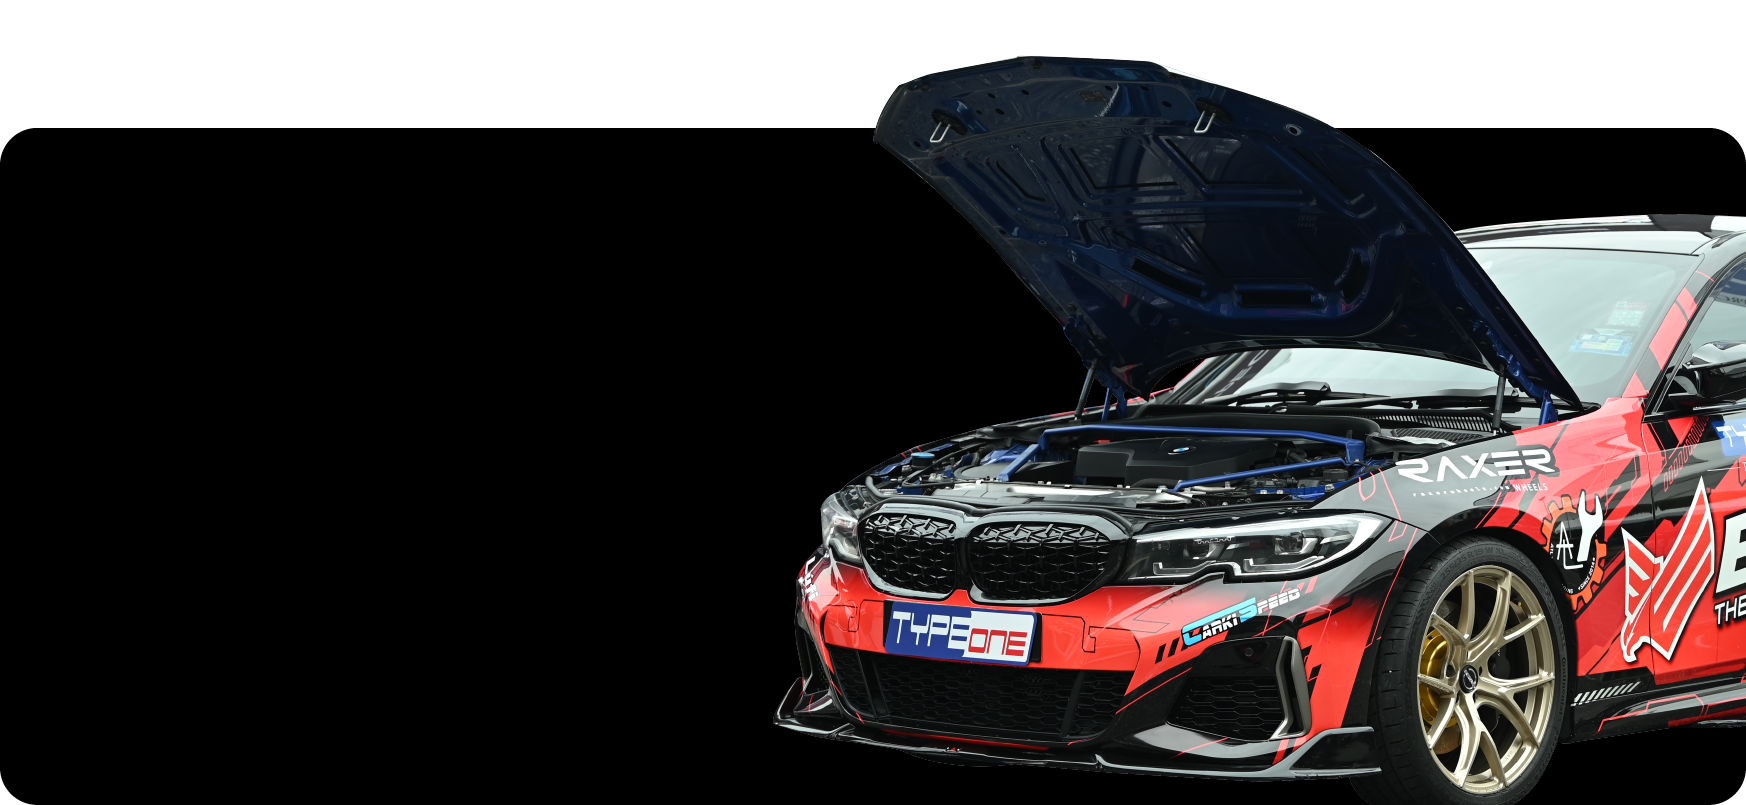
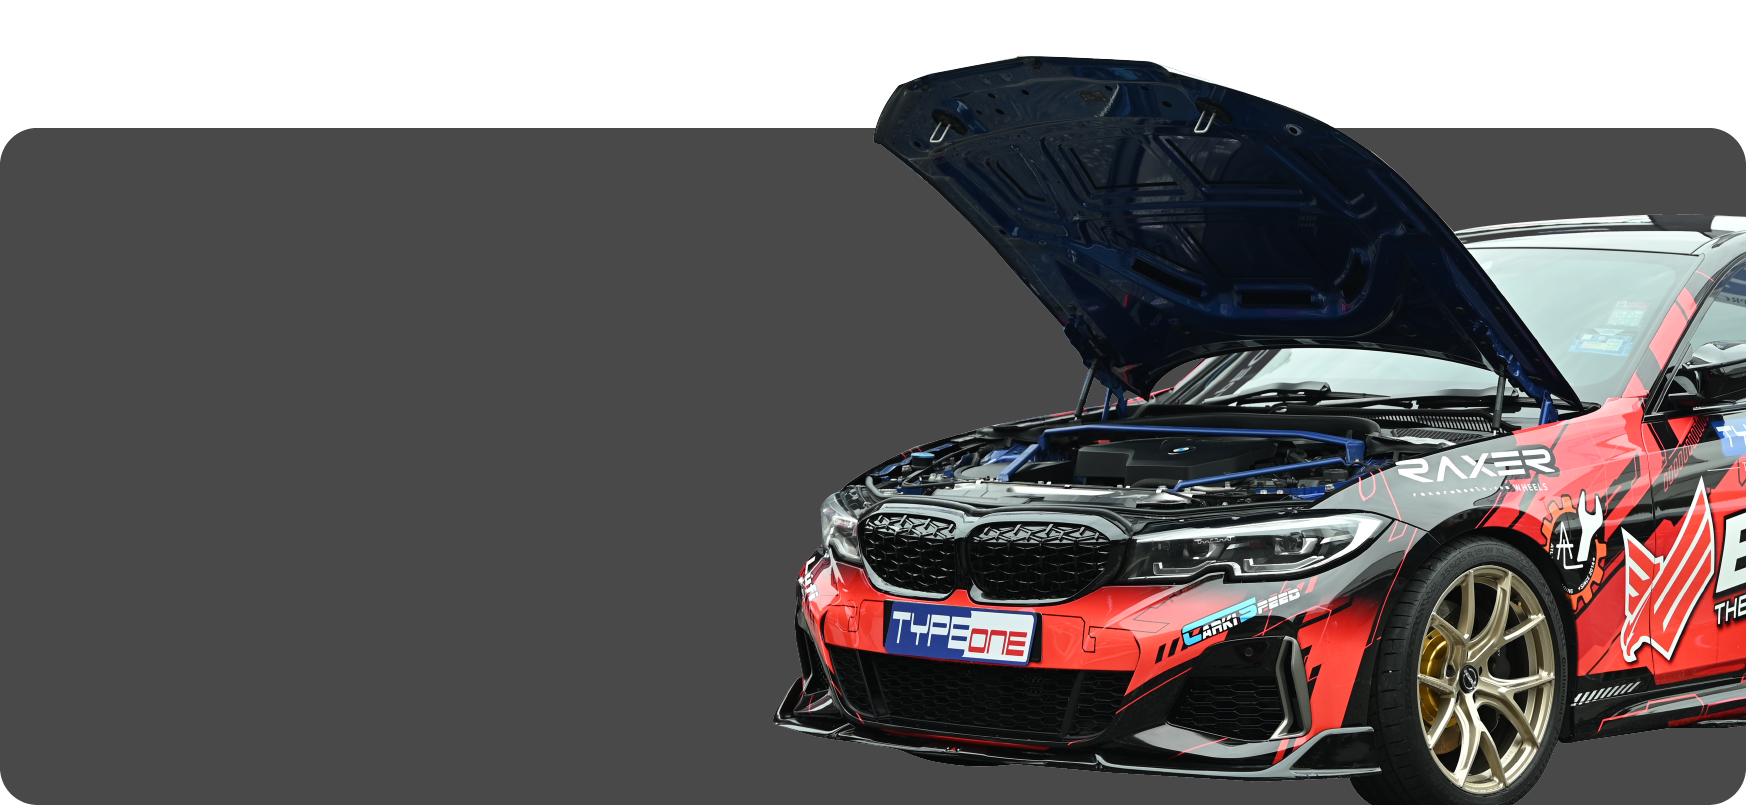
Update the countdown and the new image

diff --git a/views/index-25.php b/views/index-25.php
@@ -155,6 +155,21 @@
                             <img src="<?= asset('images/2025-gallery/gallery-442x525px-08.webp') ?>" class="img-fluid" alt="Gallery Image 4">
                         </a>
                     </div>
+                    <div class="f-carousel__slide">
+                        <a href="<?= asset('images/2025-gallery/gallery-442x525px-08.webp') ?>" data-fancybox="gallery">
+                            <img src="<?= asset('images/2025-gallery/gallery-442x525px-08.webp') ?>" class="img-fluid" alt="Gallery Image 4">
+                        </a>
+                    </div>
+                    <div class="f-carousel__slide">
+                        <a href="<?= asset('images/2025-gallery/gallery-442x525px-08.webp') ?>" data-fancybox="gallery">
+                            <img src="<?= asset('images/2025-gallery/gallery-442x525px-08.webp') ?>" class="img-fluid" alt="Gallery Image 4">
+                        </a>
+                    </div>
+                    <div class="f-carousel__slide">
+                        <a href="<?= asset('images/2025-gallery/gallery-442x525px-08.webp') ?>" data-fancybox="gallery">
+                            <img src="<?= asset('images/2025-gallery/gallery-442x525px-08.webp') ?>" class="img-fluid" alt="Gallery Image 4">
+                        </a>
+                    </div>
                 </div>
             </div>
         </div>
@@ -198,21 +213,21 @@
                 <h5 class="text-white mb-10">Activities</h5>
             </div>
             <div class="col-md-4 mb-35">
-                <div class="detail-activities text-white">
+                <div class="detail-activities text-white mt-15">
                     <h4 class="text-white">AUTOSHOW <br> HIGHLIGHT</h4>
                     <p>Seamless design meets <br> long-lasting power</p>
                 </div>
                 <img src="<?= asset('images/2025/carshow.png') ?>" alt="" class="img-fluid">
             </div>
             <div class="col-md-4 mb-35">
-                <div class="detail-activities text-white">
+                <div class="detail-activities text-white mt-15">
                     <h4 class="text-white">TWO-WHEEL <br> THRILLS</h4>
                     <p>Built for convenience, <br> made to endure</p>
                 </div>
                 <img src="<?= asset('images/2025/motoshow.png') ?>" alt="" class="img-fluid">
             </div>
             <div class="col-md-4 mb-35">
-                <div class="detail-activities text-white">
+                <div class="detail-activities text-white mt-15">
                     <h4 class="text-white">PUSH BIKE</h4>
                     <p>Where passion <br> meets pedal power <br> all day long</p>
                 </div>

diff --git a/views/layouts/navbar-25.php b/views/layouts/navbar-25.php
@@ -4,19 +4,19 @@
             <div class="countdown countdown-25 text-center mb-1 pt-15 pb-1">
                 <div class="w-100 g-1">
                     <div class="text-center px-10">
-                        <h2 style="font-size:2.25rem;" class="pl-sm-3 pl-2">00</h2>
+                        <h2 style="font-size:2.25rem;" class="pl-sm-2 pl-2">00</h2>
                         <h4 style="font-size:1.1rem;" class="mb-0">DAYS</h4>
                     </div>
                     <div class="text-center px-10">
-                        <h2 style="font-size:2.25rem;" class="pl-sm-3 pl-2">00</h2>
+                        <h2 style="font-size:2.25rem;" class="pl-sm-2 pl-2">00</h2>
                         <h4 style="font-size:1.1rem;" class="mb-0">HOURS</h4>
                     </div>
                     <div class="text-center px-10">
-                        <h2 style="font-size:2.25rem;" class="pl-sm-3 pl-2">00</h2>
+                        <h2 style="font-size:2.25rem;" class="pl-sm-2 pl-2">00</h2>
                         <h4 style="font-size:1.1rem;" class="mb-0">MINUTES</h4>
                     </div>
                     <div class="text-center px-10">
-                        <h2 style="font-size:2.25rem;" class="pl-sm-3 pl-2">00</h2>
+                        <h2 style="font-size:2.25rem;" class="pl-sm-2 pl-2">00</h2>
                         <h4 style="font-size:1.1rem;" class="mb-0">SECONDS</h4>
                     </div>
                 </div>
